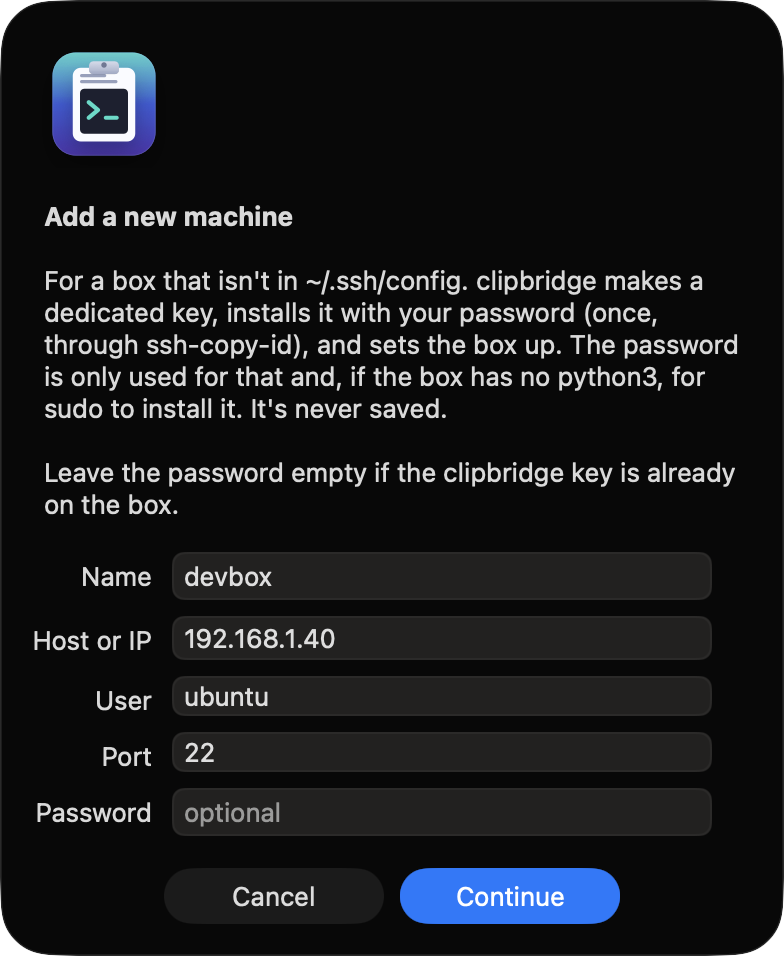
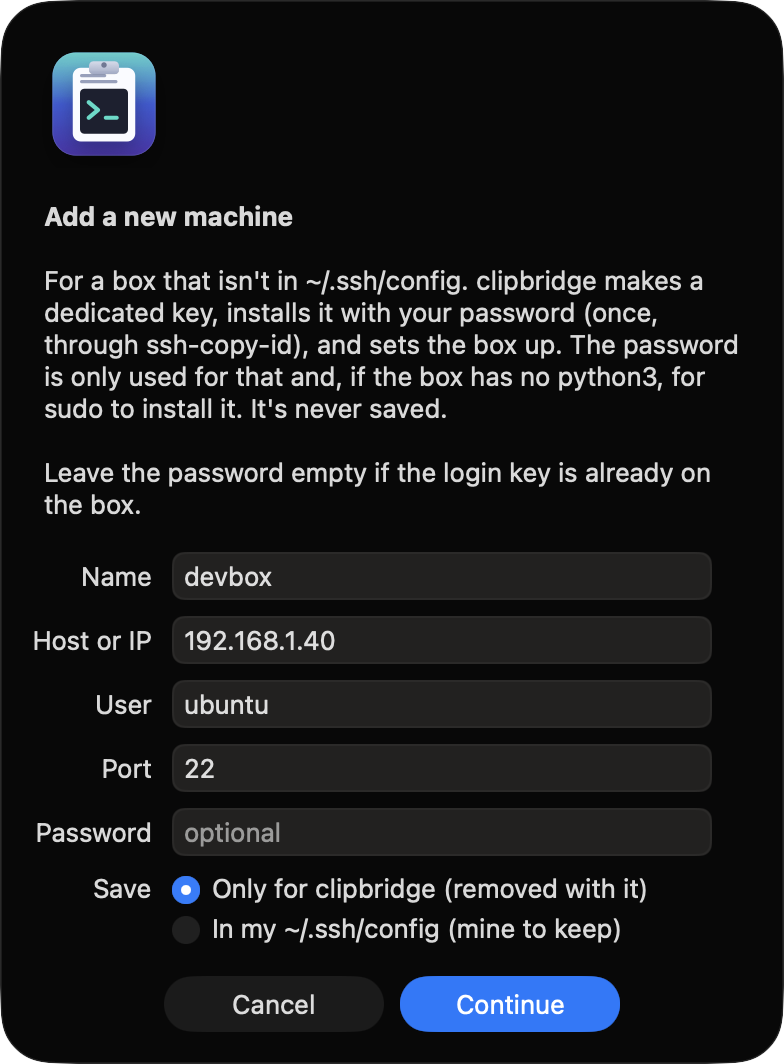
New machine: choose where the connection is saved (clipbridge-only, removed with it; or your ~/.ssh/config with its own key, kept after uninstall)

diff --git a/Sources/ClipBridge/Hosts.swift b/Sources/ClipBridge/Hosts.swift
@@ -150,6 +150,8 @@ enum Dialog {
         let user: String
         let port: Int
         let password: String
+        /// true: a normal Host entry + its own key in your ~/.ssh/config, kept after uninstall.
+        var saveToSSHConfig = false
     }
 
     /// Details for a machine that isn't in ~/.ssh/config yet.
@@ -162,7 +164,7 @@ enum Dialog {
             password (once, through ssh-copy-id), and sets the box up. The password is only used for that \
             and, if the box has no python3, for sudo to install it. It's never saved.
 
-            Leave the password empty if the clipbridge key is already on the box.
+            Leave the password empty if the login key is already on the box.
             """
         func field(_ placeholder: String, _ value: String?, secure: Bool = false) -> NSTextField {
             let f: NSTextField = secure ? NSSecureTextField(frame: .zero) : NSTextField(frame: .zero)
@@ -177,18 +179,29 @@ enum Dialog {
         let port = field("22", prefill.map { String($0.port) })
         let password = field("optional", nil, secure: true)
         // Labels beside the fields: placeholders vanish once a field is filled in.
-        let rows: [(String, NSTextField)] = [("Name", name), ("Host or IP", host), ("User", user),
-                                             ("Port", port), ("Password", password)]
+        let rows: [(String, NSView)] = [("Name", name), ("Host or IP", host), ("User", user),
+                                        ("Port", port), ("Password", password)]
+        // Where the connection is saved.
+        let onlyCB = NSButton(radioButtonWithTitle: "Only for clipbridge (removed with it)", target: nil, action: nil)
+        let mine = NSButton(radioButtonWithTitle: "In my ~/.ssh/config (mine to keep)", target: nil, action: nil)
+        onlyCB.toolTip = "Uses clipbridge's own key and known_hosts. remove/uninstall take everything back off your Mac and the box, including the key."
+        mine.toolTip = "Writes a normal Host entry and its own key (~/.ssh/id_ed25519_<name>). `ssh <name>` keeps working after you uninstall clipbridge."
+        (prefill?.saveToSSHConfig ?? false ? mine : onlyCB).state = .on
+        let choice = NSStackView(views: [onlyCB, mine])
+        choice.orientation = .vertical
+        choice.alignment = .leading
+        choice.spacing = 4
+        let radioGroup = RadioGroup([onlyCB, mine])
         let grid = NSGridView(views: rows.map { label, f in
             let l = NSTextField(labelWithString: label)
             l.alignment = .right
             return [l, f]
-        })
+        } + [[NSTextField(labelWithString: "Save"), choice]])
         grid.rowSpacing = 8
         grid.columnSpacing = 10
         grid.column(at: 0).xPlacement = .trailing
         grid.rowAlignment = .firstBaseline
-        grid.frame = NSRect(x: 0, y: 0, width: 360, height: 5 * 22 + 4 * 8)
+        grid.frame = NSRect(x: 0, y: 0, width: 360, height: 5 * 22 + 4 * 8 + 46 + 8)
         a.accessoryView = grid
         a.addButton(withTitle: "Continue")
         a.addButton(withTitle: "Cancel")
@@ -198,7 +211,8 @@ enum Dialog {
         let m = NewMachine(name: name.stringValue.trimmingCharacters(in: .whitespaces),
                            host: host.stringValue.trimmingCharacters(in: .whitespaces),
                            user: user.stringValue.trimmingCharacters(in: .whitespaces),
-                           port: p, password: password.stringValue)
+                           port: p, password: password.stringValue,
+                           saveToSSHConfig: radioGroup.selected === mine)
         let ok = { (s: String) in !s.isEmpty && s.allSatisfy { $0.isLetter || $0.isNumber || "._-:".contains($0) } }
         guard ok(m.name), ok(m.host), ok(m.user), (1...65535).contains(m.port) else {
             return newMachine(prefill: m, error: "Fill in name, host and user (letters, digits, . _ - only).")
@@ -223,6 +237,21 @@ enum Dialog {
         guard a.runModal() == .alertFirstButtonReturn else { return nil }
         let n = names(field.stringValue)
         return n.isEmpty ? nil : n
+    }
+
+    /// Makes radio buttons that don't share an action behave as one group.
+    @MainActor final class RadioGroup: NSObject {
+        let buttons: [NSButton]
+        init(_ buttons: [NSButton]) {
+            self.buttons = buttons
+            super.init()
+            for b in buttons {
+                b.target = self
+                b.action = #selector(pick(_:))
+            }
+        }
+        @objc func pick(_ sender: NSButton) { for b in buttons { b.state = b === sender ? .on : .off } }
+        var selected: NSButton? { buttons.first { $0.state == .on } }
     }
 
     static func names(_ s: String) -> [String] {

diff --git a/Sources/ClipBridge/main.swift b/Sources/ClipBridge/main.swift
@@ -433,6 +433,7 @@ final class AppDelegate: NSObject, NSApplicationDelegate, NSMenuDelegate, UNUser
         var args = ["new", m.name, "--host", m.host, "--user", m.user, "--port", String(m.port),
                     "--accept-hostkey", fingerprint, "--password-stdin"]
         if installPython { args.append("--install-python") }
+        args += ["--save-to", m.saveToSSHConfig ? "ssh-config" : "clipbridge"]
         busy = "Setting up \(m.name)"
         CLI.run(args, input: m.password) { r in
             DispatchQueue.main.async {

diff --git a/README.md b/README.md
@@ -85,7 +85,8 @@ unmatched address or was opened before setup.
 **A machine that isn't in `~/.ssh/config`:** **Add host… → New machine…**, or:
 
 ```sh
-clipbridge new devbox --host 192.168.1.40 --user ubuntu [--port 22] --password-stdin [--install-python]
+clipbridge new devbox --host 192.168.1.40 --user ubuntu [--port 22] --password-stdin [--install-python] \
+  [--save-to clipbridge|ssh-config]
 ```
 
 It works like this:
@@ -93,9 +94,13 @@ It works like this:
 2. It makes a dedicated key (`~/.ssh/clipbridge_ed25519`) and installs it with your password, used once
    via `ssh-copy-id` and never saved.
 3. If the box has no python3, it offers to install it with sudo.
-4. It sets the box up as `devbox`. The connection details live in clipbridge's own ssh config, so
-   `remove`/`uninstall` take everything away again, including the key line in the box's
-   `authorized_keys`.
+4. It sets the box up as `devbox`. **You choose where the connection is saved:**
+   - **Only for clipbridge** (the default): it lives in clipbridge's own ssh config with the shared
+     clipbridge key. `remove`/`uninstall` take everything away again, including the key line in the
+     box's `authorized_keys`.
+   - **In my `~/.ssh/config`**: a normal Host entry with its own key, `~/.ssh/id_ed25519_<name>`, and
+     your `known_hosts`. It's yours: `remove`/`uninstall` take back only clipbridge's parts, and
+     `ssh devbox` keeps working.
 
 <p align="center"><img src="docs/new-machine.png" width="340" alt="Add a new machine dialog"></p>
 

diff --git a/HOW-IT-WORKS.md b/HOW-IT-WORKS.md
@@ -147,7 +147,16 @@ From the menu: **Add host…** → pick the alias from your `~/.ssh/config` → 
    equivalent). The password goes to `sudo -S` on stdin.
 4. **The usual setup** (forward, shims, PATH, session key), as for any host.
 
-The connection itself lives in clipbridge's generated ssh config:
+**Where the connection is saved** is your choice in the dialog (`--save-to` on the CLI):
+
+| | Only for clipbridge (default) | In my `~/.ssh/config` |
+|---|---|---|
+| Host entry | clipbridge's generated config | a normal block in `~/.ssh/config`, marked "Added by clipbridge new" |
+| Login key | shared `~/.ssh/clipbridge_ed25519` | its own `~/.ssh/id_ed25519_<name>` |
+| known_hosts | `~/.config/clipbridge/known_hosts` | your `~/.ssh/known_hosts` |
+| On `remove` / `uninstall` | all removed, including the key's line on the box | left in place: only clipbridge's forward, shims, PATH block and session key go |
+
+With "Only for clipbridge", the connection lives in clipbridge's generated ssh config:
 
 ```
 Host devbox
